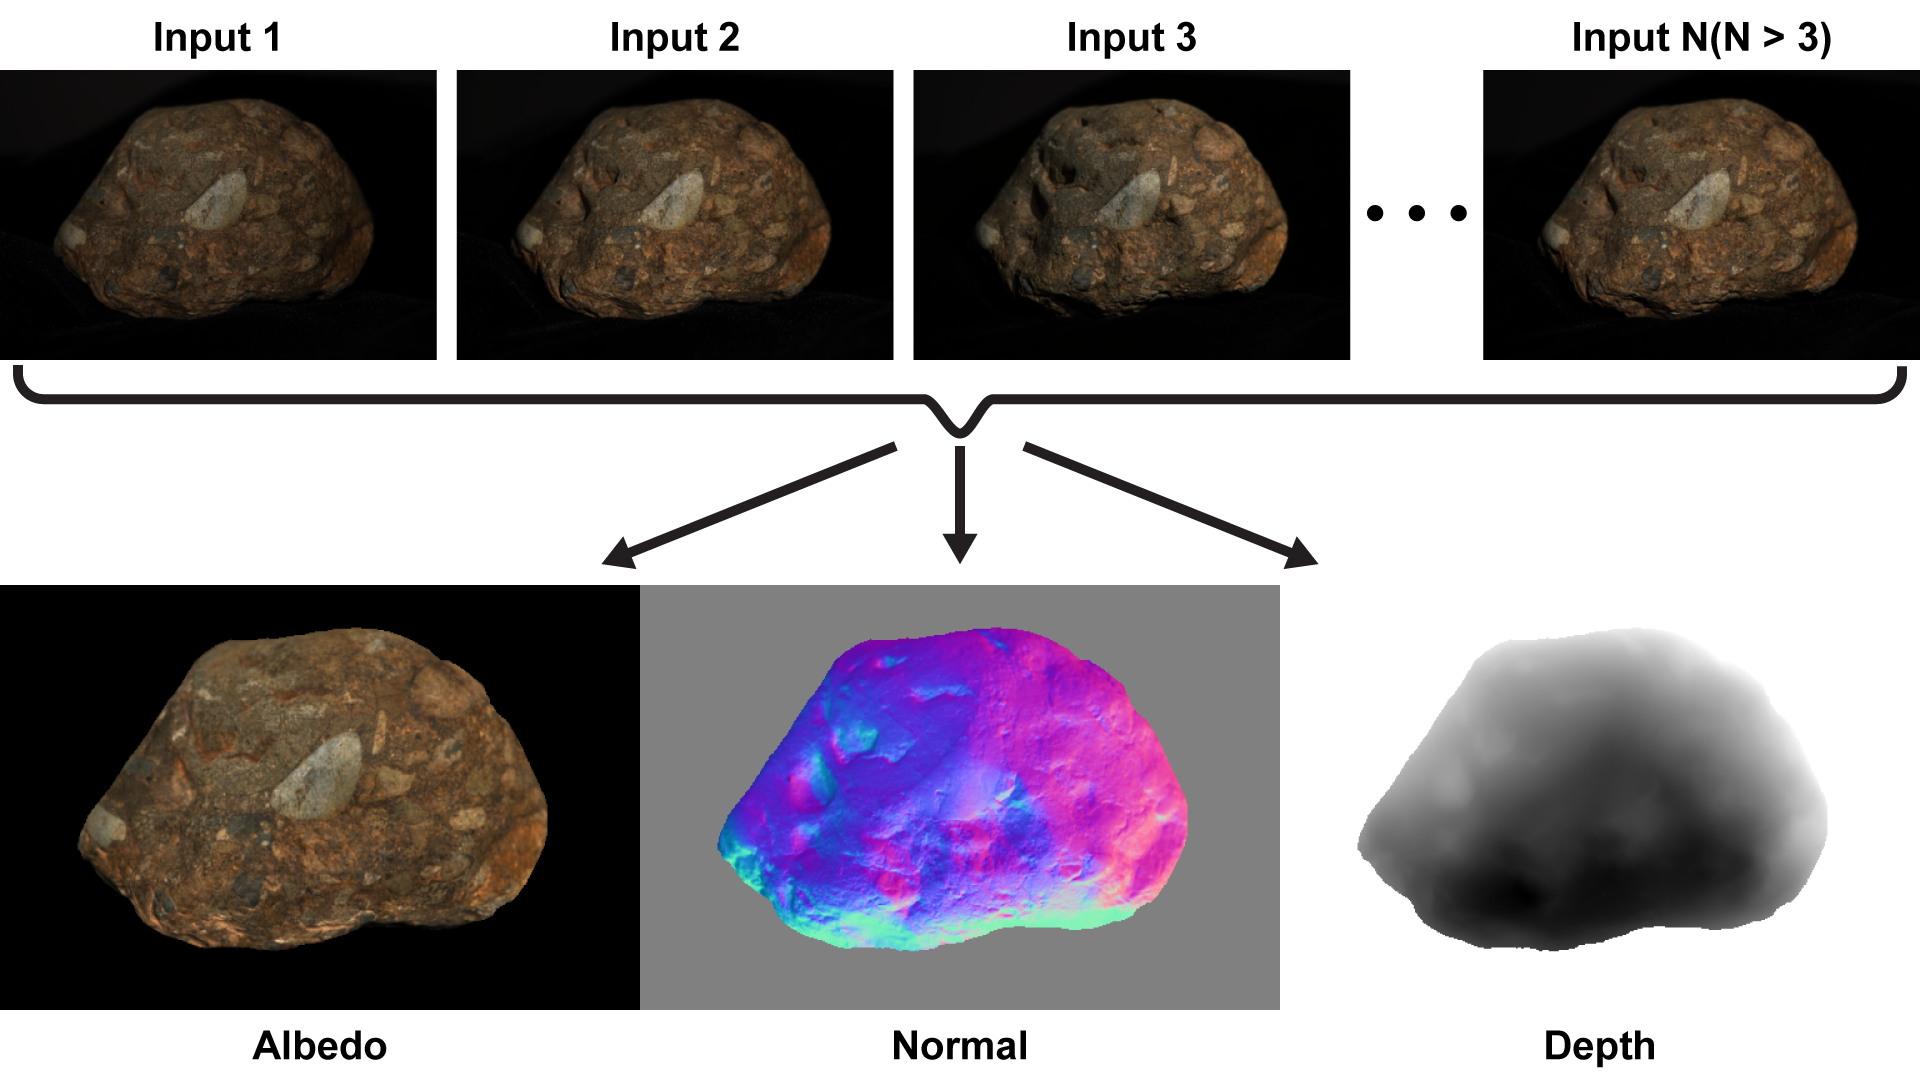
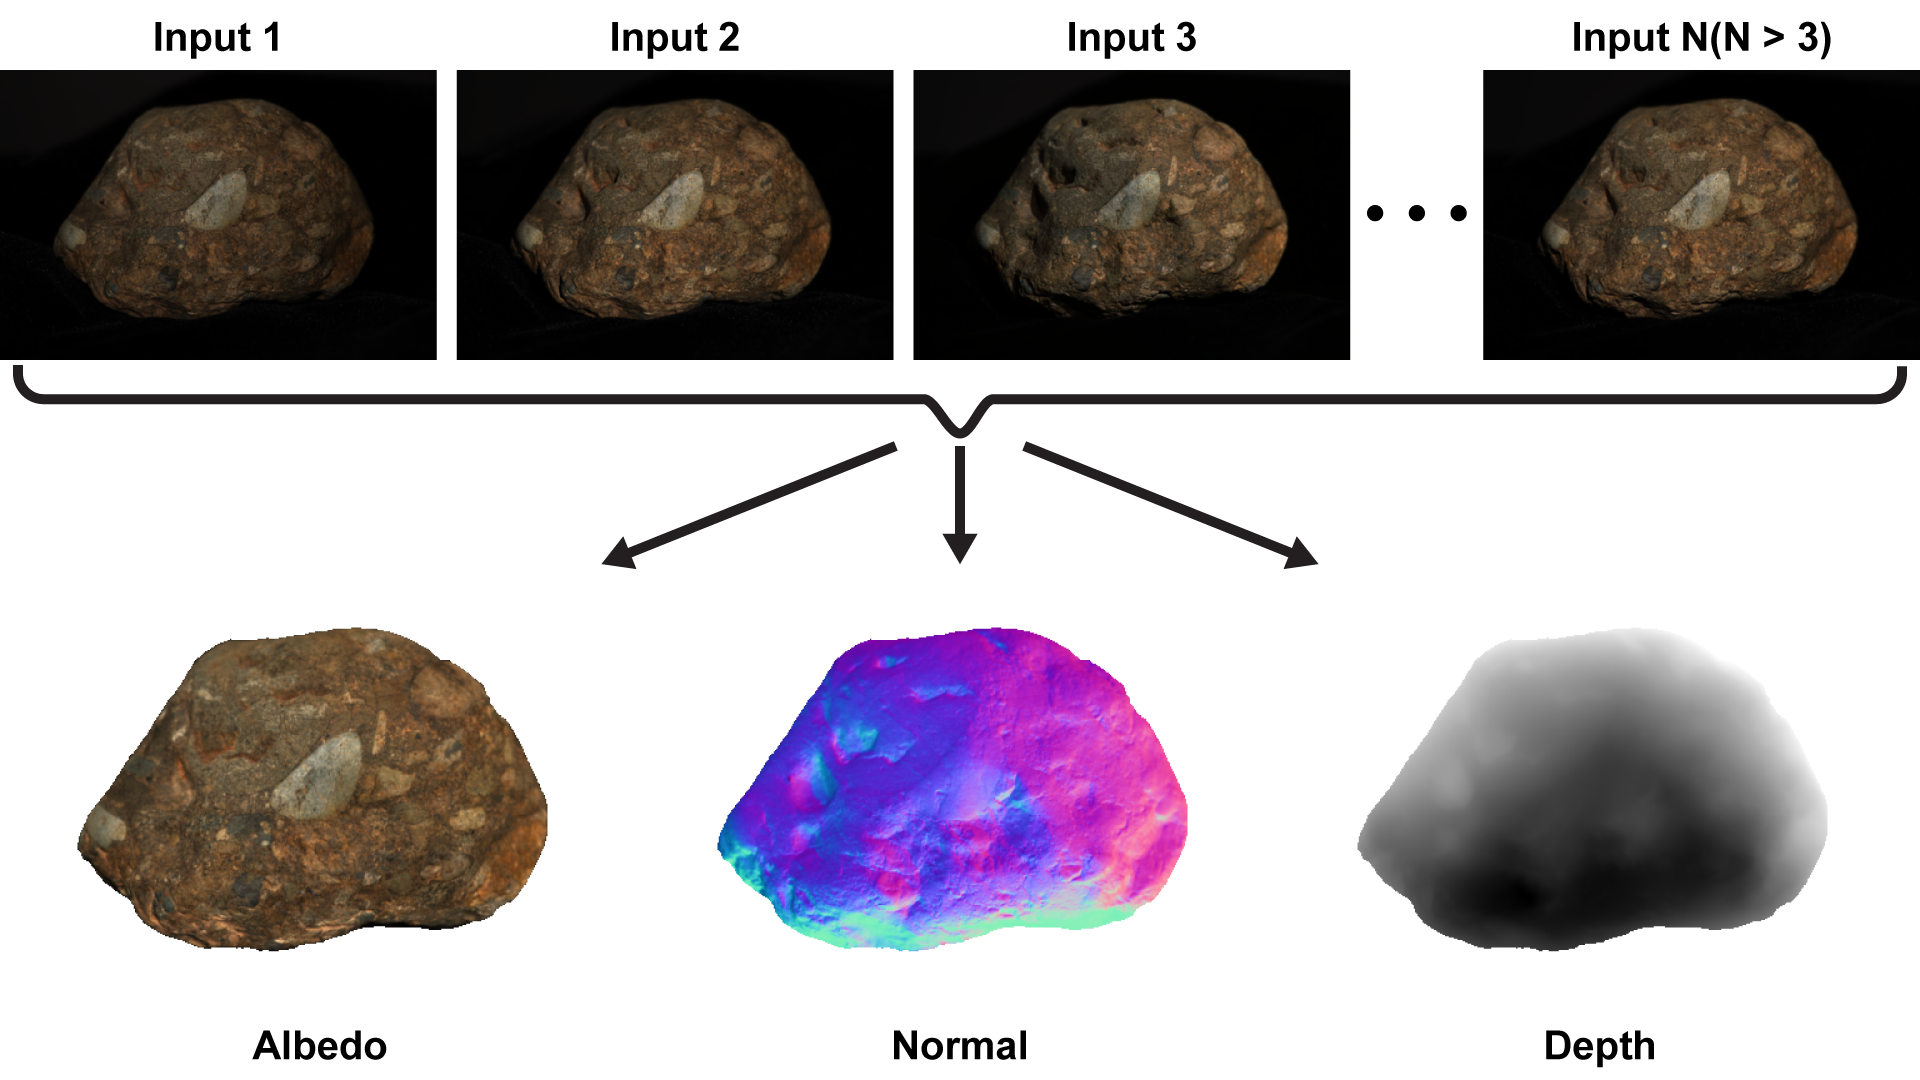
change image

Changed region(s): [[0.0, 0.5194, 0.6875, 0.9472]]

diff --git a/main.py b/main.py
@@ -5,7 +5,7 @@
   @Email: rinsa@suou.waseda.jp
   @Date: 2019-02-26 17:58:39
   @Last Modified by:   rinsa318
-  @Last Modified time: 2019-03-27 14:17:26
+  @Last Modified time: 2019-03-29 19:14:05
  ----------------------------------------------------
 
   Usage:
@@ -181,6 +181,8 @@ def main():
 
 
   ### save result as image
+  normal_image[small_mask == 0] = [255, 255, 255]
+  albedo_image[small_mask == 0] = [255, 255, 255]
   results = np.hstack((np.hstack((albedo_image, normal_image)), depth_image_rgb))
   cv2.imwrite(merage_result, np.array(results, dtype=np.uint8))
   # cv2.imshow("results", np.array(results, dtype=np.uint8))
